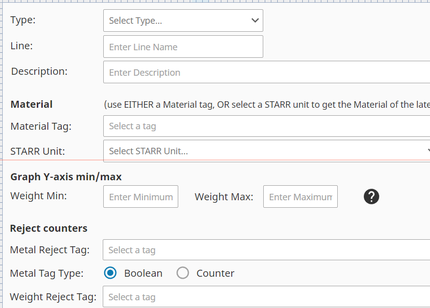
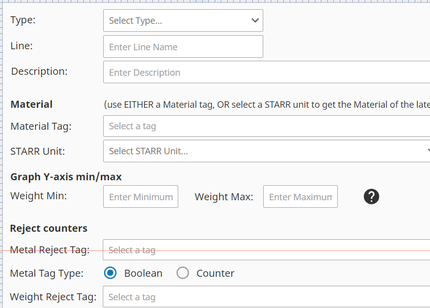
Version

Changed region(s): [[0.0, 0.789, 1.0, 0.8182], [0.0, 0.4968, 1.0, 0.526]]

diff --git a/ignition/script-python/Constants_P/code.py b/ignition/script-python/Constants_P/code.py
@@ -1,7 +1,7 @@
 PROJECT={
     'project_name':system.project.getProjectName(),
     'db_name':'weight',
-    'version_number':1.16,
+    'version_number':1.17,
     'project_dependencies':{
         'Core':1.54,
         'STARR':1.62,